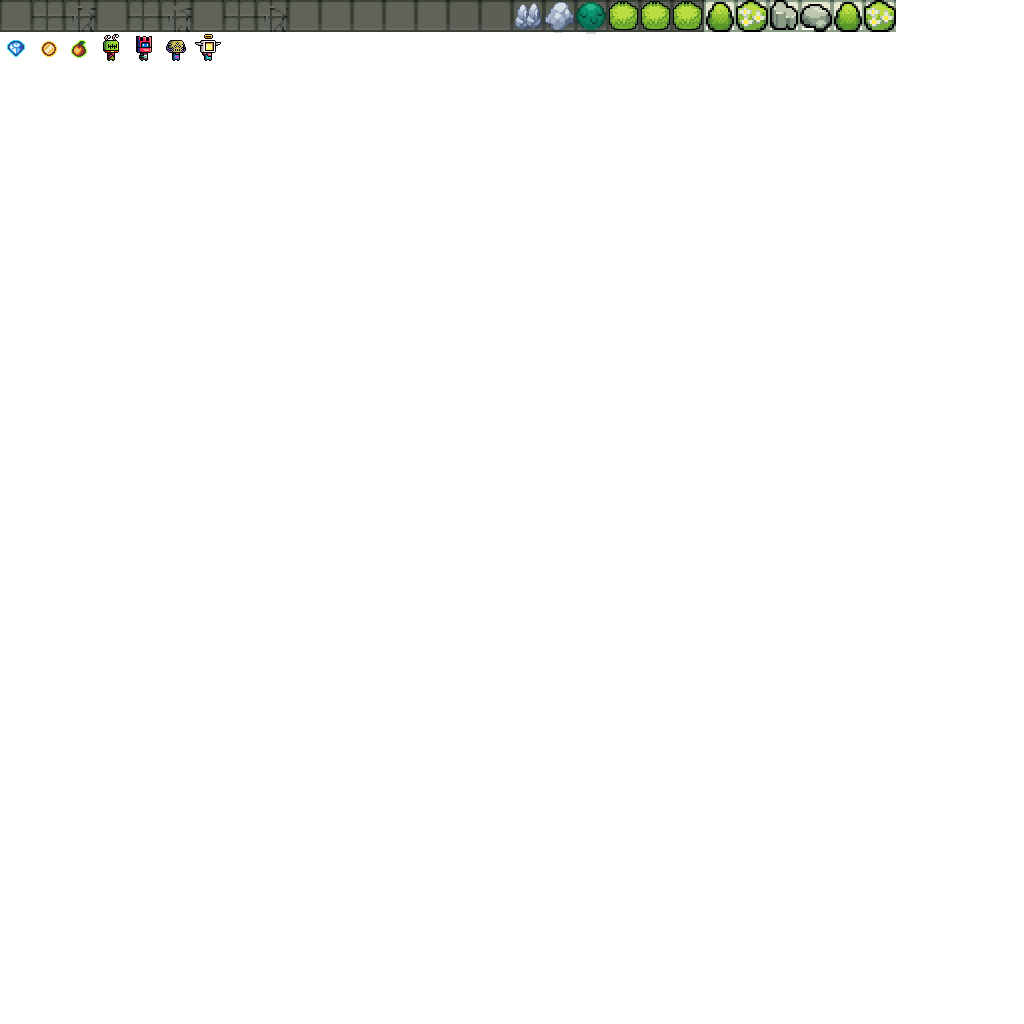
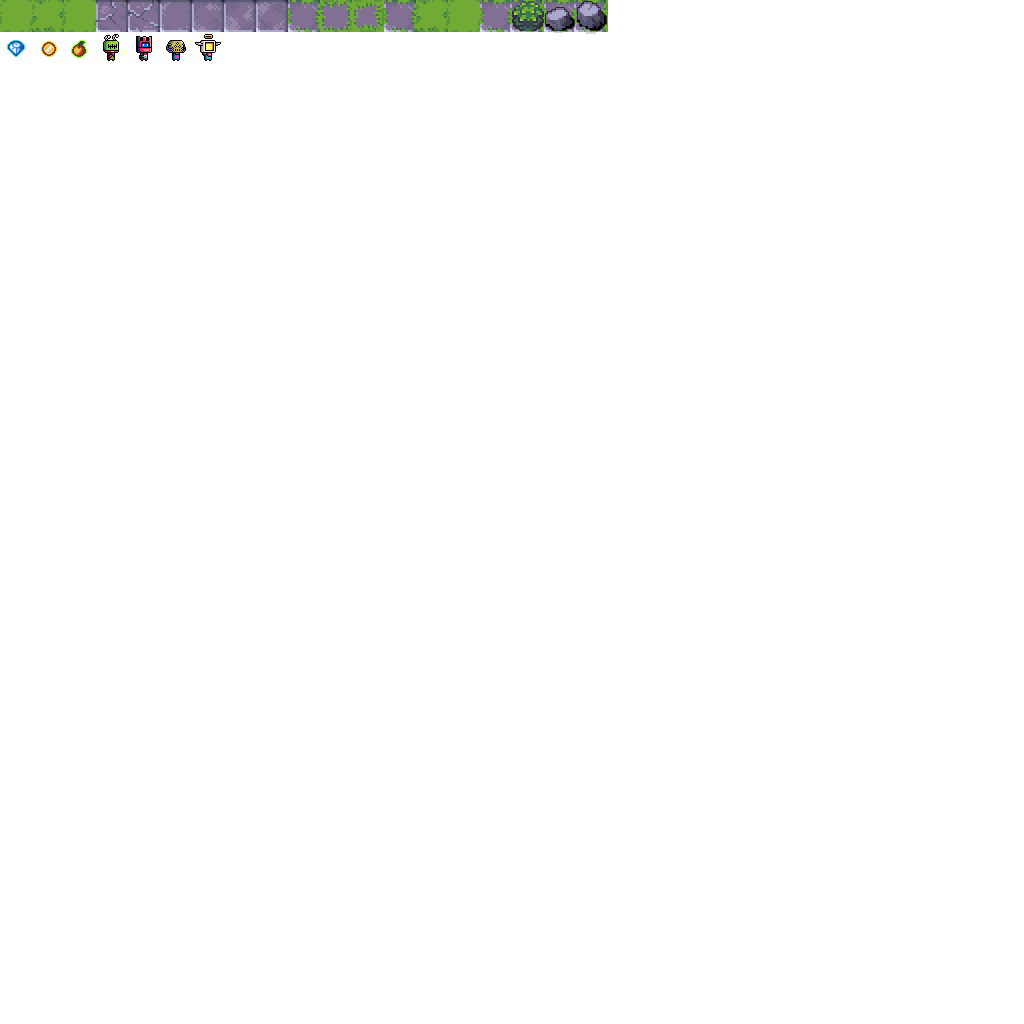
better gfx and board size

Changed region(s): [[0.0, 0.0, 0.875, 0.0312]]

diff --git a/engine/rogue_like.js b/engine/rogue_like.js
@@ -1,6 +1,6 @@
 require('dotenv').config()//console.log(process.env)
 
-let MAP_WIDTH = 24;
+let MAP_WIDTH = 32;
 let MAP_HEIGHT = 24
 let RL_MAP = null;
 
@@ -63,6 +63,13 @@ function RogueMapGenerate(gw, gh, ts){
     let max_gem = 5;//Low start amounts
     let count_gem = 0;
 
+    //all first
+    for (let x = 0; x < map.gw; x++) {
+        for (let y = 0; y < map.gh; y++) {
+            let g1 = RogueRandInt(3);//just first 3 tiles by default (grassy etc)
+            RogueTMSet(map.tm, RL_GroundLayer, gw, x, y, g1);
+        }
+    }
     //Set Random (non edge)
     for (let x = 1; x < map.gw-1; x++) {
         for (let y = 1; y < map.gh-1; y++) {
@@ -273,21 +280,21 @@ function RogueMapProcess(core, dt, cooldown){
 
     //Add more gold, gems, npcs, if < max
     if(count_food < max_food){
-        x = RogueRandInt(MAP_WIDTH); y = RogueRandInt(MAP_HEIGHT);
+        x = RogueRandInt(MAP_WIDTH-2)+1; y = RogueRandInt(MAP_HEIGHT-2)+1;//not boundaries
         if(RogueIsLocationOpen(map, x, y) === true){
             let food = 1;//RogueRandInt(15)+1;//TODO more food options here
             RogueTMSet(map.tm, RL_ItemsLayer, map.gw, x, y, food);
         }
     }
     if(count_gold < max_gold){
-        x = RogueRandInt(MAP_WIDTH); y = RogueRandInt(MAP_HEIGHT);
+        x = RogueRandInt(MAP_WIDTH-2)+1; y = RogueRandInt(MAP_HEIGHT-2)+1;//not boundaries
         if(RogueIsLocationOpen(map, x, y) === true){
             let gold = 100;
             RogueTMSet(map.tm, RL_ItemsLayer, map.gw, x, y, gold);
         }
     }
     if(count_gem < max_gem){
-        x = RogueRandInt(MAP_WIDTH); y = RogueRandInt(MAP_HEIGHT);
+        x = RogueRandInt(MAP_WIDTH-2)+1; y = RogueRandInt(MAP_HEIGHT-2)+1;//not boundaries
         if(RogueIsLocationOpen(map, x, y) === true){
             let gem = 1000;
             RogueTMSet(map.tm, RL_ItemsLayer, map.gw, x, y, gem);

diff --git a/public/index.html b/public/index.html
@@ -29,7 +29,7 @@
         /* This could be done in one single declaration. See the extended sample. */
         margin-right: auto;
         margin-left: auto;
-        width: 768px;
+        width: 1024px;
     }
 </style>
 </head>
@@ -65,7 +65,7 @@
 
             </div>
             <div class="container-canvas">
-                <canvas id="Canvas" tabindex="1" width="768" height="768" style="border:1px solid black;"></canvas>
+                <canvas id="Canvas" tabindex="1" width="1024" height="768" style="border:1px solid black;"></canvas>
             </div>
             <div style="text-align: center;">
                 <span id="msg" style="text-align: center; padding: 10px;">...</span>

diff --git a/public/js/game/RogueLike.js b/public/js/game/RogueLike.js
@@ -2,7 +2,7 @@
 let XOffset = 0;
 let YOffset = 0;
 let ZoomView = 1;//1;
-let MAP_WIDTH = 24;
+let MAP_WIDTH = 32;
 let MAP_HEIGHT = 24;
 let RL_MAP = null;
 let RogueCanvas = null;
@@ -208,7 +208,7 @@ function HTML5Draw(){
 
     let pstat = "HP: " + SERVER_UPDATE.hp + " Score: " + SERVER_UPDATE.score +  " Credits: " + SERVER_UPDATE.credit;
 
-    let uSize =768;
+    let uSize = 1024;
 
     //In Canvas Info
     RogueContext.globalAlpha = 0.7;
